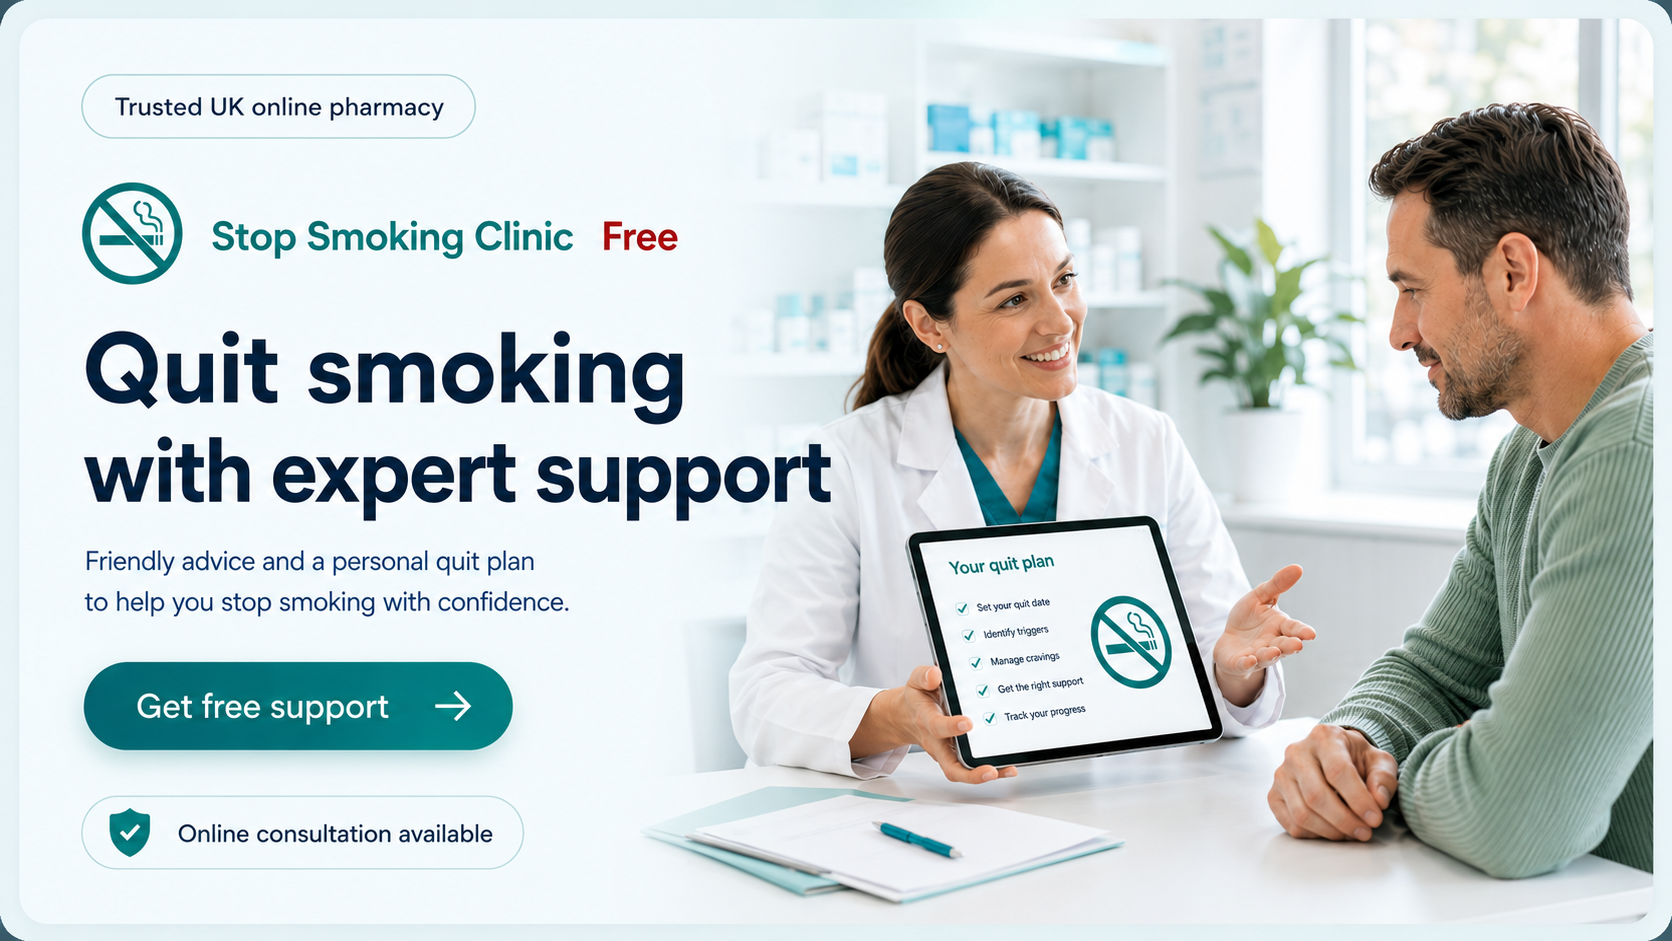
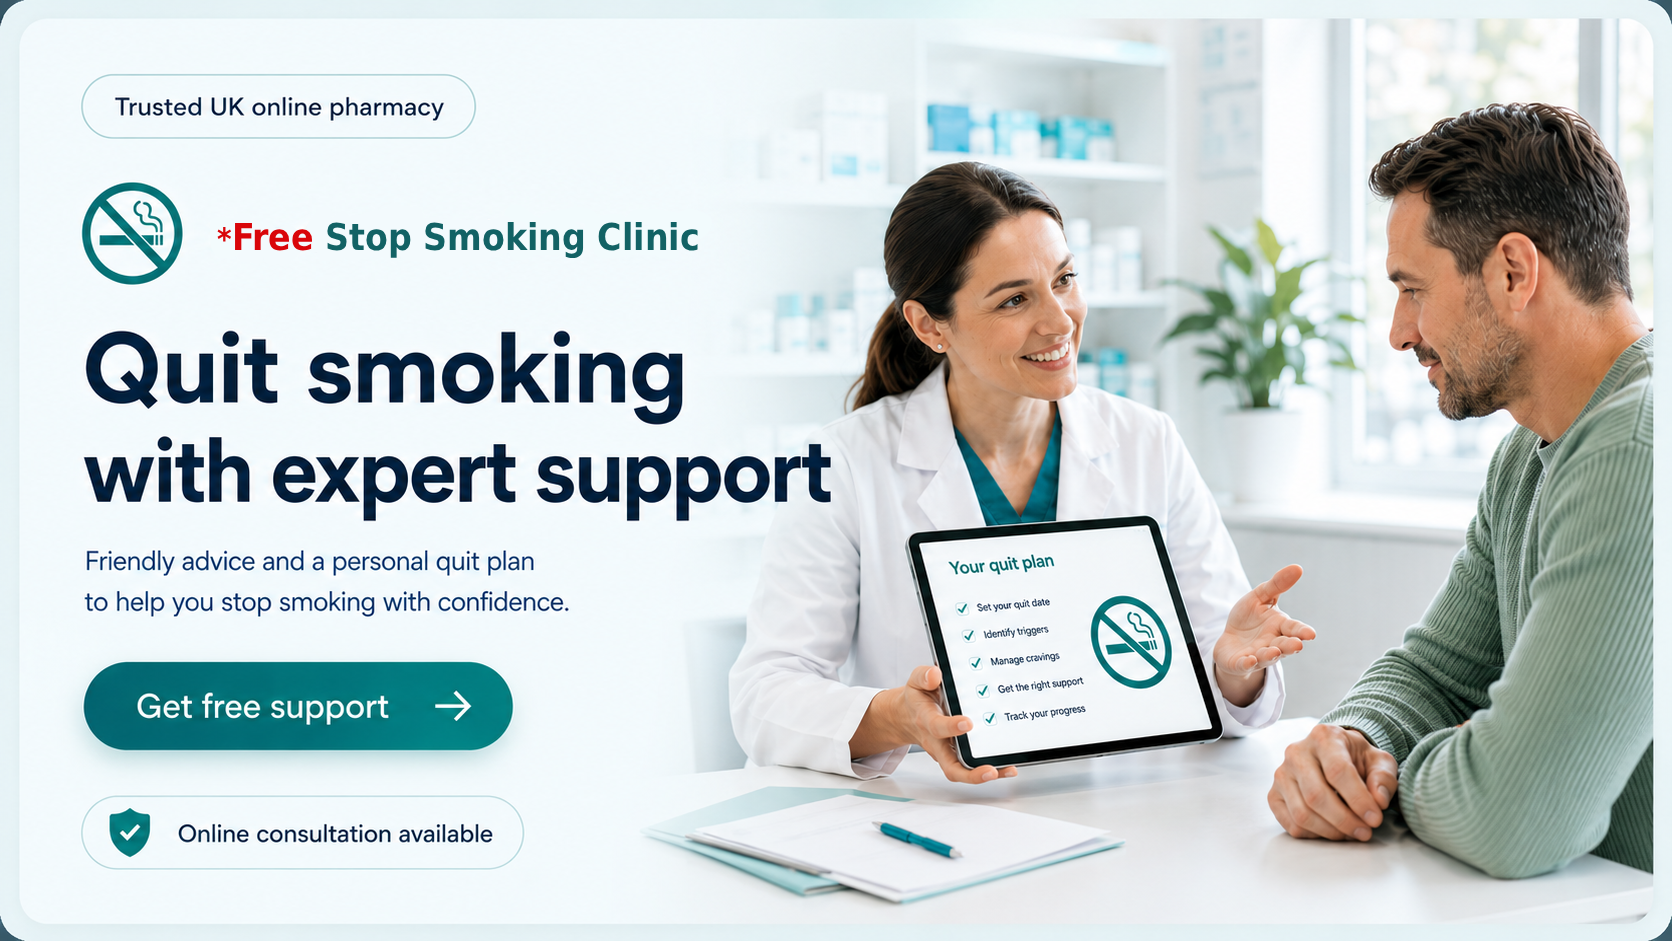
Refine hero guidance and footer details

Changed region(s): [[0.1244, 0.2157, 0.4354, 0.2774]]

diff --git a/styles.css b/styles.css
@@ -1540,6 +1540,17 @@ main {
   transform: scale(1.015);
 }
 
+@media (min-width: 769px) {
+  .hero-carousel__slide img {
+    object-position: left center;
+    transform-origin: left center;
+  }
+
+  .hero-carousel__slide.is-active img {
+    transform: scale(1.008);
+  }
+}
+
 .hero-carousel__controls {
   position: absolute;
   inset: 0;

diff --git a/index.html b/index.html
@@ -553,7 +553,7 @@
 
         <div class="hero-carousel-disclaimer hero-carousel-disclaimer--mobile" aria-label="Hero service disclaimer">
           <span class="hero-carousel-disclaimer__accent" aria-hidden="true">*</span>
-          <p class="hero-carousel-disclaimer__text">Free applies to Pharmacy First and Stop Smoking Clinic if you are exempt from NHS prescription charges; charges may apply if treatment is supplied.</p>
+          <p class="hero-carousel-disclaimer__text">Free if you&rsquo;re exempt from NHS prescription charges; otherwise one standard NHS prescription charge applies.</p>
         </div>
 
         <section class="mobile-prescriptions-chooser" aria-label="Prescription support shortcuts">
@@ -927,7 +927,7 @@
     <div class="hero-carousel-disclaimer-shell container">
       <div class="hero-carousel-disclaimer" aria-label="Hero service disclaimer">
         <span class="hero-carousel-disclaimer__accent" aria-hidden="true">*</span>
-        <p class="hero-carousel-disclaimer__text">Free applies to Pharmacy First and Stop Smoking Clinic if you are exempt from NHS prescription charges; charges may apply if treatment is supplied.</p>
+        <p class="hero-carousel-disclaimer__text">Free if you&rsquo;re exempt from NHS prescription charges; otherwise one standard NHS prescription charge applies.</p>
       </div>
     </div>
 
@@ -1292,7 +1292,6 @@
                   <a href="delivery-privacy/">Delivery info</a>
                   <a href="#">Returns</a>
                   <a href="#">FAQs</a>
-                  <a href="#">Complaints</a>
                 </div>
               </details>
               <details class="footer-nav-column footer-nav-accordion" open>
@@ -1325,7 +1324,7 @@
                   <div class="footer-leadership-person">
                     <p class="footer-leadership-name">Zaineb Mouaid Hassen</p>
                     <p class="footer-leadership-role">Pharmacist Manager</p>
-                    <p class="footer-leadership-registration">MPharm MRPharmS &middot; GPhC Reg. <a class="footer-gphc-link" href="https://www.pharmacyregulation.org/registers/pharmacist/registrationnumber/2229136" target="_blank" rel="noopener noreferrer" aria-label="View Zaineb Mouaid Hassen GPhC registration">2229136</a></p>
+                    <p class="footer-leadership-registration">MPharm &middot; GPhC Reg. <a class="footer-gphc-link" href="https://www.pharmacyregulation.org/registers/pharmacist/registrationnumber/2229136" target="_blank" rel="noopener noreferrer" aria-label="View Zaineb Mouaid Hassen GPhC registration">2229136</a></p>
                   </div>
                 </div>
               </details>

diff --git a/covid-vaccines/index.html b/covid-vaccines/index.html
@@ -734,7 +734,6 @@
                   <a href="#">Delivery info</a>
                   <a href="#">Returns</a>
                   <a href="#">FAQs</a>
-                  <a href="#">Complaints</a>
                 </div>
               </details>
               <details class="footer-nav-column footer-nav-accordion" open>
@@ -767,7 +766,7 @@
                   <div class="footer-leadership-person">
                     <p class="footer-leadership-name">Zaineb Mouaid Hassen</p>
                     <p class="footer-leadership-role">Pharmacist Manager</p>
-                    <p class="footer-leadership-registration">MPharm MRPharmS &middot; GPhC Reg. <a class="footer-gphc-link" href="https://www.pharmacyregulation.org/registers/pharmacist/registrationnumber/2229136" target="_blank" rel="noopener noreferrer" aria-label="View Zaineb Mouaid Hassen GPhC registration">2229136</a></p>
+                    <p class="footer-leadership-registration">MPharm &middot; GPhC Reg. <a class="footer-gphc-link" href="https://www.pharmacyregulation.org/registers/pharmacist/registrationnumber/2229136" target="_blank" rel="noopener noreferrer" aria-label="View Zaineb Mouaid Hassen GPhC registration">2229136</a></p>
                   </div>
                 </div>
               </details>

diff --git a/delivery-privacy/index.html b/delivery-privacy/index.html
@@ -718,7 +718,6 @@
                   <a href="../delivery-privacy/">Delivery info</a>
                   <a href="#">Returns</a>
                   <a href="#">FAQs</a>
-                  <a href="#">Complaints</a>
                 </div>
               </details>
               <details class="footer-nav-column footer-nav-accordion" open>
@@ -751,7 +750,7 @@
                   <div class="footer-leadership-person">
                     <p class="footer-leadership-name">Zaineb Mouaid Hassen</p>
                     <p class="footer-leadership-role">Pharmacist Manager</p>
-                    <p class="footer-leadership-registration">MPharm MRPharmS &middot; GPhC Reg. <a class="footer-gphc-link" href="https://www.pharmacyregulation.org/registers/pharmacist/registrationnumber/2229136" target="_blank" rel="noopener noreferrer" aria-label="View Zaineb Mouaid Hassen GPhC registration">2229136</a></p>
+                    <p class="footer-leadership-registration">MPharm &middot; GPhC Reg. <a class="footer-gphc-link" href="https://www.pharmacyregulation.org/registers/pharmacist/registrationnumber/2229136" target="_blank" rel="noopener noreferrer" aria-label="View Zaineb Mouaid Hassen GPhC registration">2229136</a></p>
                   </div>
                 </div>
               </details>

diff --git a/emergency-prescriptions/index.html b/emergency-prescriptions/index.html
@@ -726,7 +726,6 @@
                   <a href="../delivery-privacy/">Delivery info</a>
                   <a href="#">Returns</a>
                   <a href="#">FAQs</a>
-                  <a href="#">Complaints</a>
                 </div>
               </details>
               <details class="footer-nav-column footer-nav-accordion" open>
@@ -759,7 +758,7 @@
                   <div class="footer-leadership-person">
                     <p class="footer-leadership-name">Zaineb Mouaid Hassen</p>
                     <p class="footer-leadership-role">Pharmacist Manager</p>
-                    <p class="footer-leadership-registration">MPharm MRPharmS &middot; GPhC Reg. <a class="footer-gphc-link" href="https://www.pharmacyregulation.org/registers/pharmacist/registrationnumber/2229136" target="_blank" rel="noopener noreferrer" aria-label="View Zaineb Mouaid Hassen GPhC registration">2229136</a></p>
+                    <p class="footer-leadership-registration">MPharm &middot; GPhC Reg. <a class="footer-gphc-link" href="https://www.pharmacyregulation.org/registers/pharmacist/registrationnumber/2229136" target="_blank" rel="noopener noreferrer" aria-label="View Zaineb Mouaid Hassen GPhC registration">2229136</a></p>
                   </div>
                 </div>
               </details>

diff --git a/flu-vaccines/index.html b/flu-vaccines/index.html
@@ -734,7 +734,6 @@
                   <a href="#">Delivery info</a>
                   <a href="#">Returns</a>
                   <a href="#">FAQs</a>
-                  <a href="#">Complaints</a>
                 </div>
               </details>
               <details class="footer-nav-column footer-nav-accordion" open>
@@ -767,7 +766,7 @@
                   <div class="footer-leadership-person">
                     <p class="footer-leadership-name">Zaineb Mouaid Hassen</p>
                     <p class="footer-leadership-role">Pharmacist Manager</p>
-                    <p class="footer-leadership-registration">MPharm MRPharmS &middot; GPhC Reg. <a class="footer-gphc-link" href="https://www.pharmacyregulation.org/registers/pharmacist/registrationnumber/2229136" target="_blank" rel="noopener noreferrer" aria-label="View Zaineb Mouaid Hassen GPhC registration">2229136</a></p>
+                    <p class="footer-leadership-registration">MPharm &middot; GPhC Reg. <a class="footer-gphc-link" href="https://www.pharmacyregulation.org/registers/pharmacist/registrationnumber/2229136" target="_blank" rel="noopener noreferrer" aria-label="View Zaineb Mouaid Hassen GPhC registration">2229136</a></p>
                   </div>
                 </div>
               </details>

diff --git a/health-advice/index.html b/health-advice/index.html
@@ -731,7 +731,6 @@
                   <a href="#">Delivery info</a>
                   <a href="#">Returns</a>
                   <a href="#">FAQs</a>
-                  <a href="#">Complaints</a>
                 </div>
               </details>
               <details class="footer-nav-column footer-nav-accordion" open>
@@ -764,7 +763,7 @@
                   <div class="footer-leadership-person">
                     <p class="footer-leadership-name">Zaineb Mouaid Hassen</p>
                     <p class="footer-leadership-role">Pharmacist Manager</p>
-                    <p class="footer-leadership-registration">MPharm MRPharmS &middot; GPhC Reg. <a class="footer-gphc-link" href="https://www.pharmacyregulation.org/registers/pharmacist/registrationnumber/2229136" target="_blank" rel="noopener noreferrer" aria-label="View Zaineb Mouaid Hassen GPhC registration">2229136</a></p>
+                    <p class="footer-leadership-registration">MPharm &middot; GPhC Reg. <a class="footer-gphc-link" href="https://www.pharmacyregulation.org/registers/pharmacist/registrationnumber/2229136" target="_blank" rel="noopener noreferrer" aria-label="View Zaineb Mouaid Hassen GPhC registration">2229136</a></p>
                   </div>
                 </div>
               </details>

diff --git a/nhs-contraception-services/index.html b/nhs-contraception-services/index.html
@@ -765,7 +765,6 @@
                   <a href="#">Delivery info</a>
                   <a href="#">Returns</a>
                   <a href="#">FAQs</a>
-                  <a href="#">Complaints</a>
                 </div>
               </details>
               <details class="footer-nav-column footer-nav-accordion" open>
@@ -798,7 +797,7 @@
                   <div class="footer-leadership-person">
                     <p class="footer-leadership-name">Zaineb Mouaid Hassen</p>
                     <p class="footer-leadership-role">Pharmacist Manager</p>
-                    <p class="footer-leadership-registration">MPharm MRPharmS &middot; GPhC Reg. <a class="footer-gphc-link" href="https://www.pharmacyregulation.org/registers/pharmacist/registrationnumber/2229136" target="_blank" rel="noopener noreferrer" aria-label="View Zaineb Mouaid Hassen GPhC registration">2229136</a></p>
+                    <p class="footer-leadership-registration">MPharm &middot; GPhC Reg. <a class="footer-gphc-link" href="https://www.pharmacyregulation.org/registers/pharmacist/registrationnumber/2229136" target="_blank" rel="noopener noreferrer" aria-label="View Zaineb Mouaid Hassen GPhC registration">2229136</a></p>
                   </div>
                 </div>
               </details>

diff --git a/pharmacy-first/index.html b/pharmacy-first/index.html
@@ -1235,7 +1235,6 @@
                   <a href="#">Delivery info</a>
                   <a href="#">Returns</a>
                   <a href="#">FAQs</a>
-                  <a href="#">Complaints</a>
                 </div>
               </details>
               <details class="footer-nav-column footer-nav-accordion" open>
@@ -1268,7 +1267,7 @@
                   <div class="footer-leadership-person">
                     <p class="footer-leadership-name">Zaineb Mouaid Hassen</p>
                     <p class="footer-leadership-role">Pharmacist Manager</p>
-                    <p class="footer-leadership-registration">MPharm MRPharmS &middot; GPhC Reg. <a class="footer-gphc-link" href="https://www.pharmacyregulation.org/registers/pharmacist/registrationnumber/2229136" target="_blank" rel="noopener noreferrer" aria-label="View Zaineb Mouaid Hassen GPhC registration">2229136</a></p>
+                    <p class="footer-leadership-registration">MPharm &middot; GPhC Reg. <a class="footer-gphc-link" href="https://www.pharmacyregulation.org/registers/pharmacist/registrationnumber/2229136" target="_blank" rel="noopener noreferrer" aria-label="View Zaineb Mouaid Hassen GPhC registration">2229136</a></p>
                   </div>
                 </div>
               </details>

diff --git a/prescriptions/index.html b/prescriptions/index.html
@@ -602,7 +602,6 @@
                   <a href="../delivery-privacy/">Delivery info</a>
                   <a href="#">Returns</a>
                   <a href="#">FAQs</a>
-                  <a href="#">Complaints</a>
                 </div>
               </details>
               <details class="footer-nav-column footer-nav-accordion" open>
@@ -635,7 +634,7 @@
                   <div class="footer-leadership-person">
                     <p class="footer-leadership-name">Zaineb Mouaid Hassen</p>
                     <p class="footer-leadership-role">Pharmacist Manager</p>
-                    <p class="footer-leadership-registration">MPharm MRPharmS &middot; GPhC Reg. <a class="footer-gphc-link" href="https://www.pharmacyregulation.org/registers/pharmacist/registrationnumber/2229136" target="_blank" rel="noopener noreferrer" aria-label="View Zaineb Mouaid Hassen GPhC registration">2229136</a></p>
+                    <p class="footer-leadership-registration">MPharm &middot; GPhC Reg. <a class="footer-gphc-link" href="https://www.pharmacyregulation.org/registers/pharmacist/registrationnumber/2229136" target="_blank" rel="noopener noreferrer" aria-label="View Zaineb Mouaid Hassen GPhC registration">2229136</a></p>
                   </div>
                 </div>
               </details>

diff --git a/repeat-prescriptions/index.html b/repeat-prescriptions/index.html
@@ -758,7 +758,6 @@
                   <a href="../delivery-privacy/">Delivery info</a>
                   <a href="#">Returns</a>
                   <a href="#">FAQs</a>
-                  <a href="#">Complaints</a>
                 </div>
               </details>
               <details class="footer-nav-column footer-nav-accordion" open>
@@ -791,7 +790,7 @@
                   <div class="footer-leadership-person">
                     <p class="footer-leadership-name">Zaineb Mouaid Hassen</p>
                     <p class="footer-leadership-role">Pharmacist Manager</p>
-                    <p class="footer-leadership-registration">MPharm MRPharmS &middot; GPhC Reg. <a class="footer-gphc-link" href="https://www.pharmacyregulation.org/registers/pharmacist/registrationnumber/2229136" target="_blank" rel="noopener noreferrer" aria-label="View Zaineb Mouaid Hassen GPhC registration">2229136</a></p>
+                    <p class="footer-leadership-registration">MPharm &middot; GPhC Reg. <a class="footer-gphc-link" href="https://www.pharmacyregulation.org/registers/pharmacist/registrationnumber/2229136" target="_blank" rel="noopener noreferrer" aria-label="View Zaineb Mouaid Hassen GPhC registration">2229136</a></p>
                   </div>
                 </div>
               </details>

diff --git a/request-support/index.html b/request-support/index.html
@@ -717,7 +717,6 @@
                   <a href="../delivery-privacy/">Delivery info</a>
                   <a href="#">Returns</a>
                   <a href="#">FAQs</a>
-                  <a href="#">Complaints</a>
                 </div>
               </details>
               <details class="footer-nav-column footer-nav-accordion" open>
@@ -750,7 +749,7 @@
                   <div class="footer-leadership-person">
                     <p class="footer-leadership-name">Zaineb Mouaid Hassen</p>
                     <p class="footer-leadership-role">Pharmacist Manager</p>
-                    <p class="footer-leadership-registration">MPharm MRPharmS &middot; GPhC Reg. <a class="footer-gphc-link" href="https://www.pharmacyregulation.org/registers/pharmacist/registrationnumber/2229136" target="_blank" rel="noopener noreferrer" aria-label="View Zaineb Mouaid Hassen GPhC registration">2229136</a></p>
+                    <p class="footer-leadership-registration">MPharm &middot; GPhC Reg. <a class="footer-gphc-link" href="https://www.pharmacyregulation.org/registers/pharmacist/registrationnumber/2229136" target="_blank" rel="noopener noreferrer" aria-label="View Zaineb Mouaid Hassen GPhC registration">2229136</a></p>
                   </div>
                 </div>
               </details>